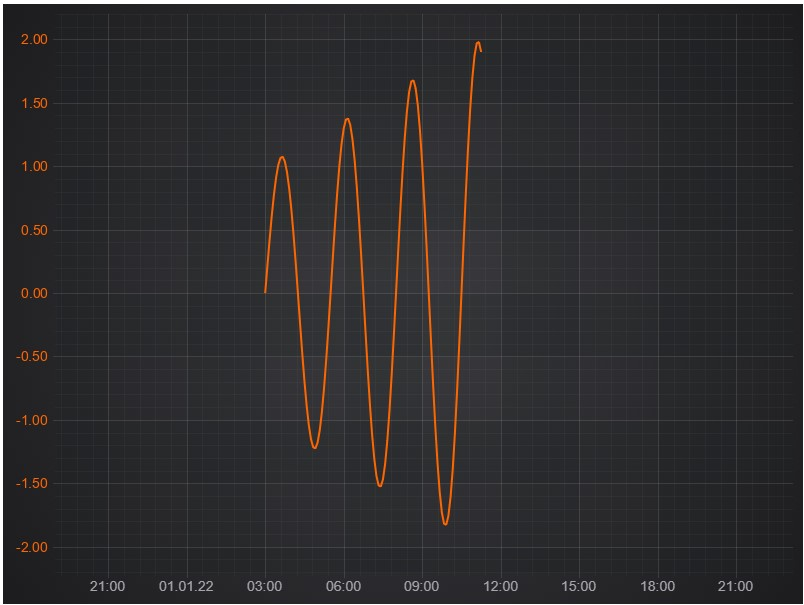
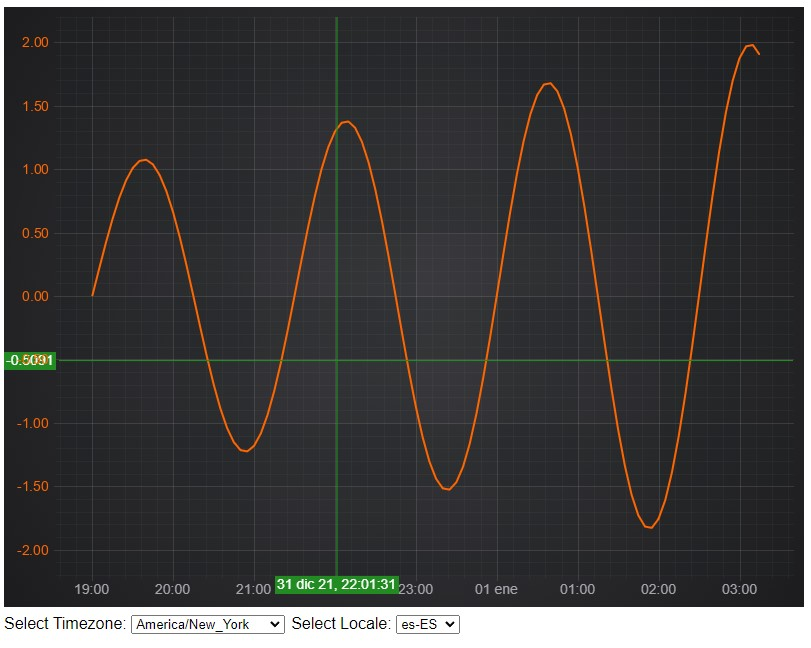
feat(sandbox): add timezone and locale selects to Smart Axis Labels example

diff --git a/Sandbox/CustomerExamples/SmartAxisLabelsWithTimezone/src/index.ts b/Sandbox/CustomerExamples/SmartAxisLabelsWithTimezone/src/index.ts
@@ -8,7 +8,8 @@ import {
     EAutoRange,
     EColor,
     FastLineRenderableSeries,
-    CursorModifier
+    CursorModifier,
+    ZoomExtentsModifier
 } from 'scichart';
 import { axisLabelDateFormatter } from './axisLabelDateFormatter';
 import { DateTickProvider } from './DateTickProvider';
@@ -16,7 +17,9 @@ import { SmartDateTZLabelProvider } from './SmartDateTZLabelProvider';
 import { createDateTzConverter } from './timezones';
 import { createDataSeries } from './createDataSeries';
 
-async function initSciChart(timeZone: string, locale: string) {
+async function initSciChart() {
+    const settings = { timezone: 'utc', locale: 'en' };
+
     const { sciChartSurface, wasmContext } = await SciChartSurface.create('scichart-root');
     const xAxis = new NumericAxis(wasmContext, {
         growBy: new NumberRange(0.05, 0.05),
@@ -31,43 +34,67 @@ async function initSciChart(timeZone: string, locale: string) {
     // Overrides getDeltaFromRange to get nice major and minor deltas for the ticks
     xAxis.deltaCalculator.getDeltaFromRange = axisLabelDateFormatter.getDeltaFromRange;
 
-    // Calculate ticks which respect the time zone
-    xAxis.tickProvider = new DateTickProvider(wasmContext, timeZone);
+    const updateSettings = (xAxis$: NumericAxis) => {
+        const { timezone, locale } = settings;
+        // Calculate ticks which respect the time zone
+        xAxis$.tickProvider = new DateTickProvider(wasmContext, timezone);
+        // Draws nice axis labels timezone and locale specific
+        xAxis$.labelProvider = new SmartDateTZLabelProvider(timezone, locale);
+        const dateTzConverter = createDateTzConverter(timezone);
+        // This is needed for Cursor and Rollover chart modifiers
+        xAxis$.labelProvider.formatCursorLabel = timestamp =>
+            axisLabelDateFormatter.toFullDateTime(timestamp, dateTzConverter, locale);
+    };
+    updateSettings(xAxis);
 
-    // Draws nice axis labels timezone and locale specific
-    xAxis.labelProvider = new SmartDateTZLabelProvider(timeZone, locale);
-
-    const dateTzConverter = createDateTzConverter(timeZone);
-
-    // This is needed for Cursor and Rollover chart modifiers
-    xAxis.labelProvider.formatCursorLabel = timestamp =>
-        axisLabelDateFormatter.toFullDateTime(timestamp, dateTzConverter, locale);
     sciChartSurface.xAxes.add(xAxis);
 
-    const yAxis1 = new NumericAxis(wasmContext, {
-        growBy: new NumberRange(0.1, 0.1),
-        axisAlignment: EAxisAlignment.Left,
-        labelStyle: { color: EColor.Orange },
-        cursorLabelPrecision: 4,
-        visibleRange: new NumberRange(-2.2, 2.2),
-        autoRange: EAutoRange.Never,
-        visibleRangeSizeLimit: new NumberRange(0.1, 1000),
-        useSharedCache: false,
-        useNativeText: true
-    });
-    yAxis1.labelProvider.precision = 2;
-    sciChartSurface.yAxes.add(yAxis1);
+    sciChartSurface.yAxes.add(
+        new NumericAxis(wasmContext, {
+            growBy: new NumberRange(0.1, 0.1),
+            axisAlignment: EAxisAlignment.Left,
+            labelStyle: { color: EColor.Orange },
+            cursorLabelPrecision: 4,
+            visibleRange: new NumberRange(-2.2, 2.2),
+            autoRange: EAutoRange.Never,
+            visibleRangeSizeLimit: new NumberRange(0.1, 1000),
+            useSharedCache: false,
+            useNativeText: true,
+            labelPrecision: 2
+        })
+    );
 
-    const firstSeriesData = createDataSeries(wasmContext, 0, { dataSeriesName: 'Sinewave Green' });
-    const renderableSeries1 = new FastLineRenderableSeries(wasmContext, {
+    const dataSeries = createDataSeries(wasmContext, 0, { dataSeriesName: 'Sinewave Green' });
+    const renderableSeries = new FastLineRenderableSeries(wasmContext, {
         stroke: EColor.Orange,
         strokeThickness: 3,
-        dataSeries: firstSeriesData,
+        dataSeries,
         isVisible: true
     });
-    sciChartSurface.renderableSeries.add(renderableSeries1);
+    sciChartSurface.renderableSeries.add(renderableSeries);
 
-    sciChartSurface.chartModifiers.add(new ZoomPanModifier(), new MouseWheelZoomModifier(), new CursorModifier());
+    sciChartSurface.chartModifiers.add(
+        new ZoomPanModifier(),
+        new MouseWheelZoomModifier(),
+        new CursorModifier(),
+        new ZoomExtentsModifier()
+    );
+
+    // Subscribe to timezone changes
+    const timezoneSelect = document.getElementById('timezones') as HTMLSelectElement;
+    timezoneSelect.addEventListener('input', () => {
+        settings.timezone = timezoneSelect.options[timezoneSelect.selectedIndex].value;
+        console.log(settings);
+        updateSettings(xAxis);
+    });
+
+    // Subscribe to locale changes
+    const localeSelect = document.getElementById('locales') as HTMLSelectElement;
+    localeSelect.addEventListener('input', () => {
+        settings.locale = localeSelect.options[localeSelect.selectedIndex].value;
+        console.log(settings);
+        updateSettings(xAxis);
+    });
 }
 
-initSciChart('Asia/Istanbul', 'de-DE');
+initSciChart();

diff --git a/Sandbox/CustomerExamples/SmartAxisLabelsWithTimezone/src/index.html b/Sandbox/CustomerExamples/SmartAxisLabelsWithTimezone/src/index.html
@@ -9,5 +9,33 @@
         <h1>Smart Axis Labels with Timezone Support</h1>
         <!-- the Div where the SciChartSurface will reside -->
         <div id="scichart-root" style="width: 800px; height: 600px"></div>
+        <div style="display: flex; padding-top: 8px;">
+            <div>
+                <label for="timezones">Select Timezone:</label>
+                <select name="timezones" id="timezones">
+                    <option value="utc" selected>UTC</option>
+                    <option value="America/Los_Angeles">America/Los_Angeles</option>
+                    <option value="America/New_York">America/New_York</option>
+                    <option value="Europe/London">Europe/London</option>
+                    <option value="Europe/Berlin">Europe/Berlin</option>
+                    <option value="Asia/Istanbul">Asia/Istanbul</option>
+                    <option value="Asia/Seoul">Asia/Seoul</option>
+                </select>
+            </div>
+            <div style="padding-left: 6px;">
+                <label for="locales">Select Locale:</label>
+                <select name="locales" id="locales">
+                    <option value="en" selected>en</option>
+                    <option value="de-DE">de-DE</option>
+                    <option value="es-ES">es-ES</option>
+                    <option value="fr-CA">fr-CA</option>
+                    <option value="fr-FR">fr-FR</option>
+                    <option value="ja">ja</option>
+                    <option value="ko">ko</option>
+                    <option value="zh-CN">zh-CN</option>
+                    <option value="zh-TW">zh-TW</option>
+                </select>
+            </div>
+        </div>
     </body>
 </html>
